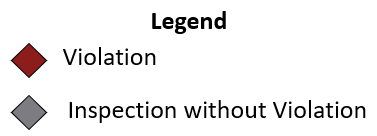
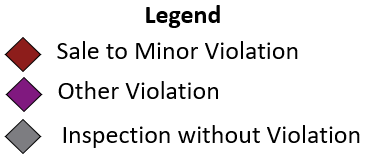
Updated T Violations

Changed region(s): [[0.0, 0.2353, 0.9945, 1.0], [0.3918, 0.0294, 0.6027, 0.2647]]

diff --git a/Tobacco/index.html b/Tobacco/index.html
@@ -177,7 +177,7 @@
                             pointToLayer: function(feature, coordinates) {
                             return   L.shapeMarker(coordinates, {
                             color: "black",
-                            fillColor: "darkred",        
+                            fillColor: "purple"  ,        
                             shape: "diamond",
                             radius: 5,
                             weight: .5,
@@ -186,15 +186,22 @@
                             onEachFeature: function (feature, layer) {
                             popupOptions = {maxWidth: 200}; 
                             layer.bindPopup("<br><b>Inspection Result: </b>"+ feature.properties.inspection_result +
-                            "<br><b>Year: </b>" +feature.properties.approx_year)
+                            "<br><b>Year: </b>" +feature.properties.approx_year +
+                            "<br><b>Sale to Minor: </b>" + feature.properties.sale_to_minor)
                         }, style: function(feature) {
                               switch (feature.properties.inspection_result) {
                                  case 'No Violations Observed': return {color: "black", fillColor: "gray", shape: "diamond",
                             radius: 5,
                             weight: .5,
+                            fillOpacity: 0.8}}
+                            switch (feature.properties.sale_to_minor_tf) {
+                                 case 'TRUE': return {color: "black", fillColor: "darkred", shape: "diamond",
+                            radius: 5,
+                            weight: .5,
                             fillOpacity: 0.8};
                             }
                         }}).addTo(map1);
+                       
                 
                 var nineteen= L.geoJSON(inspections, { 
                             filter: function(feature, layer) {
@@ -203,7 +210,7 @@
                             pointToLayer: function(feature, coordinates) {
                             return   L.shapeMarker(coordinates, {
                             color: "black",
-                            fillColor: "darkred",        
+                            fillColor: "purple"  ,        
                             shape: "diamond",
                             radius: 5,
                             weight: .5,
@@ -212,15 +219,22 @@
                             onEachFeature: function (feature, layer) {
                             popupOptions = {maxWidth: 200}; 
                             layer.bindPopup("<br><b>Inspection Result: </b>"+ feature.properties.inspection_result +
-                            "<br><b>Year: </b>" +feature.properties.approx_year)
+                            "<br><b>Year: </b>" +feature.properties.approx_year +
+                            "<br><b>Sale to Minor: </b>" + feature.properties.sale_to_minor)
                         }, style: function(feature) {
                               switch (feature.properties.inspection_result) {
                                  case 'No Violations Observed': return {color: "black", fillColor: "gray", shape: "diamond",
                             radius: 5,
                             weight: .5,
+                            fillOpacity: 0.8}}
+                            switch (feature.properties.sale_to_minor_tf) {
+                                 case 'TRUE': return {color: "black", fillColor: "darkred", shape: "diamond",
+                            radius: 5,
+                            weight: .5,
                             fillOpacity: 0.8};
                             }
                         }}).addTo(map1);
+                       
                 
                 
                 var eighteen= L.geoJSON(inspections, { 
@@ -230,7 +244,7 @@
                             pointToLayer: function(feature, coordinates) {
                             return   L.shapeMarker(coordinates, {
                             color: "black",
-                            fillColor: "darkred",        
+                            fillColor: "purple"  ,        
                             shape: "diamond",
                             radius: 5,
                             weight: .5,
@@ -239,15 +253,22 @@
                             onEachFeature: function (feature, layer) {
                             popupOptions = {maxWidth: 200}; 
                             layer.bindPopup("<br><b>Inspection Result: </b>"+ feature.properties.inspection_result +
-                            "<br><b>Year: </b>" +feature.properties.approx_year)
+                            "<br><b>Year: </b>" +feature.properties.approx_year +
+                            "<br><b>Sale to Minor: </b>" + feature.properties.sale_to_minor)
                         }, style: function(feature) {
                               switch (feature.properties.inspection_result) {
                                  case 'No Violations Observed': return {color: "black", fillColor: "gray", shape: "diamond",
                             radius: 5,
                             weight: .5,
+                            fillOpacity: 0.8}}
+                            switch (feature.properties.sale_to_minor_tf) {
+                                 case 'TRUE': return {color: "black", fillColor: "darkred", shape: "diamond",
+                            radius: 5,
+                            weight: .5,
                             fillOpacity: 0.8};
                             }
                         }}).addTo(map1);
+                       
                 
                 var seventeen= L.geoJSON(inspections, { 
                             filter: function(feature, layer) {
@@ -256,7 +277,7 @@
                             pointToLayer: function(feature, coordinates) {
                             return   L.shapeMarker(coordinates, {
                             color: "black",
-                            fillColor: "darkred",        
+                            fillColor: "purple"  ,        
                             shape: "diamond",
                             radius: 5,
                             weight: .5,
@@ -265,15 +286,22 @@
                             onEachFeature: function (feature, layer) {
                             popupOptions = {maxWidth: 200}; 
                             layer.bindPopup("<br><b>Inspection Result: </b>"+ feature.properties.inspection_result +
-                            "<br><b>Year: </b>" +feature.properties.approx_year)
+                            "<br><b>Year: </b>" +feature.properties.approx_year +
+                            "<br><b>Sale to Minor: </b>" + feature.properties.sale_to_minor)
                         }, style: function(feature) {
                               switch (feature.properties.inspection_result) {
                                  case 'No Violations Observed': return {color: "black", fillColor: "gray", shape: "diamond",
                             radius: 5,
                             weight: .5,
+                            fillOpacity: 0.8}}
+                            switch (feature.properties.sale_to_minor_tf) {
+                                 case 'TRUE': return {color: "black", fillColor: "darkred", shape: "diamond",
+                            radius: 5,
+                            weight: .5,
                             fillOpacity: 0.8};
                             }
                         }}).addTo(map1);
+                       
 
                 var sixteen= L.geoJSON(inspections, { 
                             filter: function(feature, layer) {
@@ -282,7 +310,7 @@
                             pointToLayer: function(feature, coordinates) {
                             return   L.shapeMarker(coordinates, {
                             color: "black",
-                            fillColor: "darkred",        
+                            fillColor: "purple"  ,        
                             shape: "diamond",
                             radius: 5,
                             weight: .5,
@@ -291,10 +319,16 @@
                             onEachFeature: function (feature, layer) {
                             popupOptions = {maxWidth: 200}; 
                             layer.bindPopup("<br><b>Inspection Result: </b>"+ feature.properties.inspection_result +
-                            "<br><b>Year: </b>" +feature.properties.approx_year)
+                            "<br><b>Year: </b>" +feature.properties.approx_year +
+                            "<br><b>Sale to Minor: </b>" + feature.properties.sale_to_minor)
                         }, style: function(feature) {
                               switch (feature.properties.inspection_result) {
                                  case 'No Violations Observed': return {color: "black", fillColor: "gray", shape: "diamond",
+                            radius: 5,
+                            weight: .5,
+                            fillOpacity: 0.8}}
+                            switch (feature.properties.sale_to_minor_tf) {
+                                 case 'TRUE': return {color: "black", fillColor: "darkred", shape: "diamond",
                             radius: 5,
                             weight: .5,
                             fillOpacity: 0.8};
@@ -308,7 +342,7 @@
                             pointToLayer: function(feature, coordinates) {
                             return   L.shapeMarker(coordinates, {
                             color: "black",
-                            fillColor: "darkred",        
+                            fillColor: "purple"  ,        
                             shape: "diamond",
                             radius: 5,
                             weight: .5,
@@ -317,15 +351,22 @@
                             onEachFeature: function (feature, layer) {
                             popupOptions = {maxWidth: 200}; 
                             layer.bindPopup("<br><b>Inspection Result: </b>"+ feature.properties.inspection_result +
-                            "<br><b>Year: </b>" +feature.properties.approx_year)
+                            "<br><b>Year: </b>" +feature.properties.approx_year +
+                            "<br><b>Sale to Minor: </b>" + feature.properties.sale_to_minor)
                         }, style: function(feature) {
                               switch (feature.properties.inspection_result) {
                                  case 'No Violations Observed': return {color: "black", fillColor: "gray", shape: "diamond",
                             radius: 5,
                             weight: .5,
+                            fillOpacity: 0.8}}
+                            switch (feature.properties.sale_to_minor_tf) {
+                                 case 'TRUE': return {color: "black", fillColor: "darkred", shape: "diamond",
+                            radius: 5,
+                            weight: .5,
                             fillOpacity: 0.8};
                             }
                         }}).addTo(map1);
+                       
 
                     var fourteen= L.geoJSON(inspections, { 
                             filter: function(feature, layer) {
@@ -334,7 +375,7 @@
                             pointToLayer: function(feature, coordinates) {
                             return   L.shapeMarker(coordinates, {
                             color: "black",
-                            fillColor: "darkred",        
+                            fillColor: "purple"  ,        
                             shape: "diamond",
                             radius: 5,
                             weight: .5,
@@ -343,15 +384,22 @@
                             onEachFeature: function (feature, layer) {
                             popupOptions = {maxWidth: 200}; 
                             layer.bindPopup("<br><b>Inspection Result: </b>"+ feature.properties.inspection_result +
-                            "<br><b>Year: </b>" +feature.properties.approx_year)
+                            "<br><b>Year: </b>" +feature.properties.approx_year +
+                            "<br><b>Sale to Minor: </b>" + feature.properties.sale_to_minor)
                         }, style: function(feature) {
                               switch (feature.properties.inspection_result) {
                                  case 'No Violations Observed': return {color: "black", fillColor: "gray", shape: "diamond",
                             radius: 5,
                             weight: .5,
+                            fillOpacity: 0.8}}
+                            switch (feature.properties.sale_to_minor_tf) {
+                                 case 'TRUE': return {color: "black", fillColor: "darkred", shape: "diamond",
+                            radius: 5,
+                            weight: .5,
                             fillOpacity: 0.8};
                             }
                         }}).addTo(map1);
+                       
                        
                     var thirteen= L.geoJSON(inspections, { 
                             filter: function(feature, layer) {
@@ -360,7 +408,7 @@
                             pointToLayer: function(feature, coordinates) {
                             return   L.shapeMarker(coordinates, {
                             color: "black",
-                            fillColor: "darkred",        
+                            fillColor: "purple"  ,        
                             shape: "diamond",
                             radius: 5,
                             weight: .5,
@@ -369,15 +417,22 @@
                             onEachFeature: function (feature, layer) {
                             popupOptions = {maxWidth: 200}; 
                             layer.bindPopup("<br><b>Inspection Result: </b>"+ feature.properties.inspection_result +
-                            "<br><b>Year: </b>" +feature.properties.approx_year)
+                            "<br><b>Year: </b>" +feature.properties.approx_year +
+                            "<br><b>Sale to Minor: </b>" + feature.properties.sale_to_minor)
                         }, style: function(feature) {
                               switch (feature.properties.inspection_result) {
                                  case 'No Violations Observed': return {color: "black", fillColor: "gray", shape: "diamond",
                             radius: 5,
                             weight: .5,
+                            fillOpacity: 0.8}}
+                            switch (feature.properties.sale_to_minor_tf) {
+                                 case 'TRUE': return {color: "black", fillColor: "darkred", shape: "diamond",
+                            radius: 5,
+                            weight: .5,
                             fillOpacity: 0.8};
                             }
                         }}).addTo(map1);
+                       
 
                         var twelve= L.geoJSON(inspections, { 
                             filter: function(feature, layer) {
@@ -386,7 +441,7 @@
                             pointToLayer: function(feature, coordinates) {
                             return   L.shapeMarker(coordinates, {
                             color: "black",
-                            fillColor: "darkred",        
+                            fillColor: "purple"  ,        
                             shape: "diamond",
                             radius: 5,
                             weight: .5,
@@ -395,10 +450,16 @@
                             onEachFeature: function (feature, layer) {
                             popupOptions = {maxWidth: 200}; 
                             layer.bindPopup("<br><b>Inspection Result: </b>"+ feature.properties.inspection_result +
-                            "<br><b>Year: </b>" +feature.properties.approx_year)
+                            "<br><b>Year: </b>" +feature.properties.approx_year +
+                            "<br><b>Sale to Minor: </b>" + feature.properties.sale_to_minor)
                         }, style: function(feature) {
                               switch (feature.properties.inspection_result) {
                                  case 'No Violations Observed': return {color: "black", fillColor: "gray", shape: "diamond",
+                            radius: 5,
+                            weight: .5,
+                            fillOpacity: 0.8}}
+                            switch (feature.properties.sale_to_minor_tf) {
+                                 case 'TRUE': return {color: "black", fillColor: "darkred", shape: "diamond",
                             radius: 5,
                             weight: .5,
                             fillOpacity: 0.8};
@@ -431,7 +492,7 @@
                             labels = ["TLegend.png"];
                             for (var i = 0; i < grades.length; i++) {
                               div.innerHTML +=
-                              (" <img src="+ labels[i] +" height='120' width='320'>") + grades[i] +'<br>';
+                              (" <img src="+ labels[i] +" height='85' width='200'>") + grades[i] +'<br>';
                                 }
 
                          return div;
